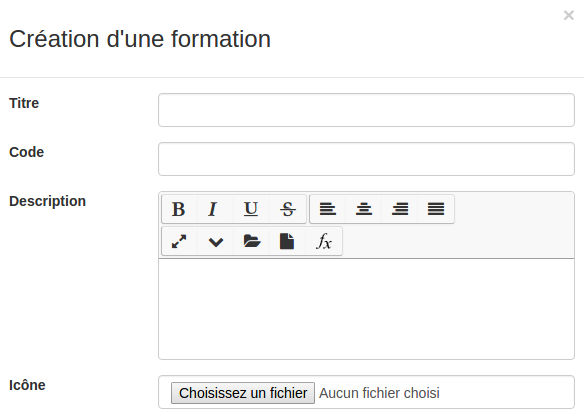
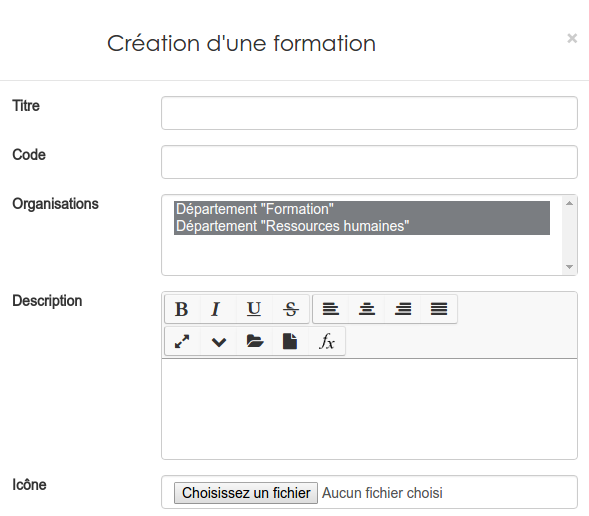
Updates fr/admin/cursus/create-trainings.md
Auto commit by GitBook Editor

diff --git a/fr/admin/cursus/create-trainings.md b/fr/admin/cursus/create-trainings.md
@@ -12,6 +12,8 @@ La première partie du formulaire est assez semblable à ceux que vous pouvez tr
 
 Il faut donner un **titre**, un **code** qui doit être unique et éventuellement une **description** et une **icône** pour représentée la formation. Cette icône apparaîtra notamment dans les widgets. 
 
+Comme pour le cursus, vous devez choisir **La ou les organisation(s)** dont fera partie votre cursus. Vous ne pouvez choisir que parmi les organisations dont vous êtes membre. 
+
 Il vous faut ensuite définir les configurations de base qui seront attribuées aux sessions que vous organiserez pour cette formation:
 ![](images/cursus-fig59.png)
 
